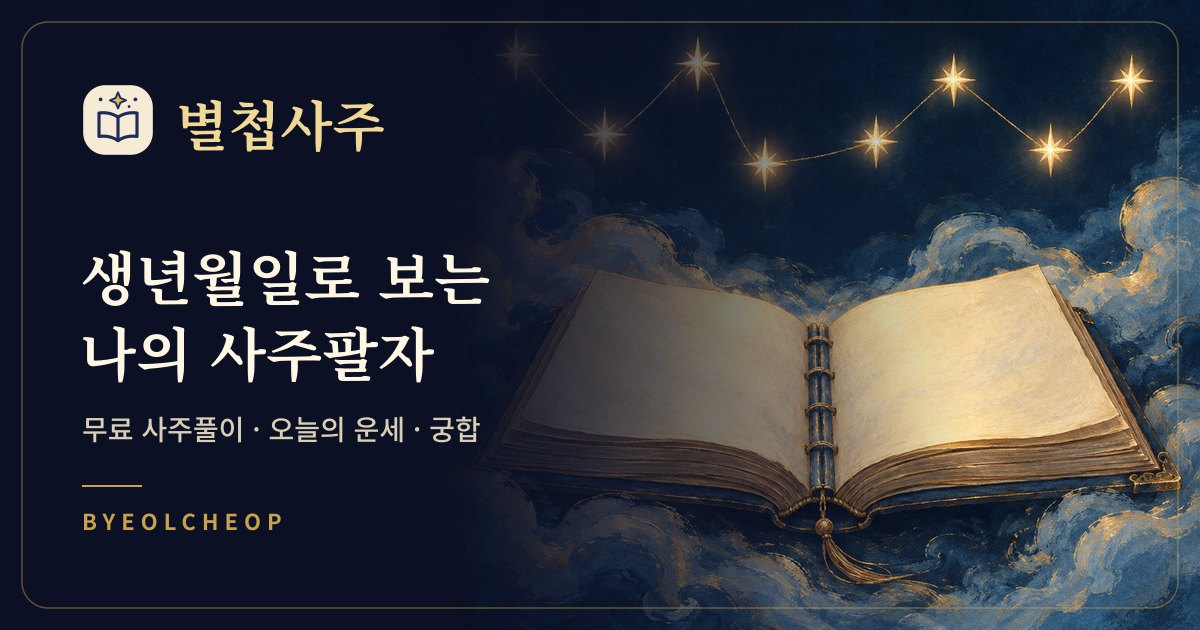
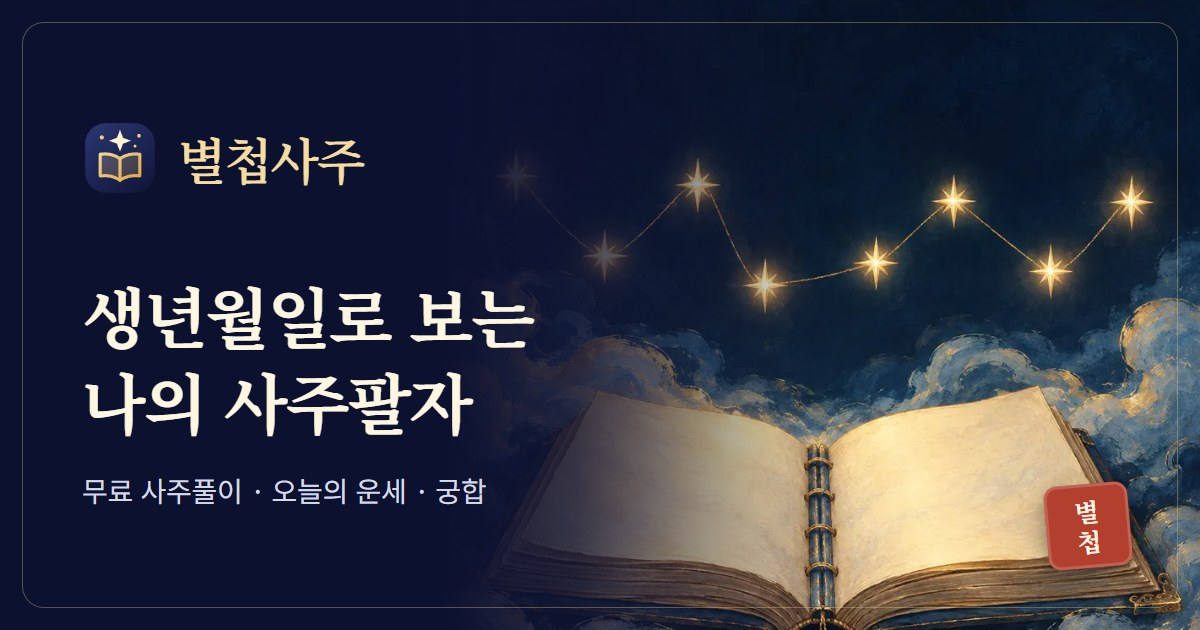
잠긴 목차·사주 소재 아이콘·오행 도장·메뉴·결제 완료 화면
- 결제 안내에 심층 리포트 18개 항목 제목을 잠긴 목차로 표시(리포트 본문과 같은 목록을 씀)
- 탭 아이콘: 사주풀이는 네 기둥, 궁합은 이어진 두 별로 다시 그림
- 오행 색 점을 木火土金水 한자 도장으로
- 메뉴: 아이콘 줄 대신 명조 글자 위주로, 궁합 빈 상태 버튼 정리
- 그림 통일: 같은 모서리·가는 테두리·같은 채도
- 결제 완료 화면: 겉모습만 변경(밤하늘 바탕, 봉함 도장). 결제 확인 스크립트는 그대로
- 공유 미리보기 이미지를 새 로고로 다시 만듦(파일 이름 그대로)

diff --git a/index.html b/index.html
@@ -14,7 +14,7 @@
 <meta property="og:title" content="별첩사주 — 사주풀이 · 오늘의 운세 · 궁합보기">
 <meta property="og:description" content="나의 성향부터 오늘의 흐름, 서로의 궁합까지. 별첩사주에서 만나보세요.">
 <meta property="og:image" content="https://www.byeolcheop.com/og-image-v4.jpg">
-<meta property="og:image:alt" content="라벤더빛 카드와 별첩사주 로고">
+<meta property="og:image:alt" content="펼친 별첩과 별자리, 별첩사주 로고">
 <meta property="og:image:width" content="1200">
 <meta property="og:image:height" content="630">
 <meta name="twitter:card" content="summary_large_image">
@@ -1784,7 +1784,7 @@ main h1,main h1.section-title{font-family:var(--font-serif-heading);font-weight:
 <link rel="stylesheet" href="/assets/ui/ian.css?v=3">
 <link rel="stylesheet" href="/assets/ui/reading-ux-v1.css?v=2">
 <link rel="stylesheet" href="/assets/ui/album-detail-v1.css?v=2">
-<link rel="stylesheet" href="/assets/ui/design-system.css?v=6">
+<link rel="stylesheet" href="/assets/ui/design-system.css?v=7">
 <!-- 방문 통계: Vercel Web Analytics. 쿠키 없이 방문 수와 들어온 경로만 세요. -->
 <script>window.va=window.va||function(){(window.vaq=window.vaq||[]).push(arguments);};</script>
 <script defer src="/_vercel/insights/script.js"></script>
@@ -3763,11 +3763,17 @@ function personaWrap(sectionType, innerHtml){ return innerHtml; }
 
 /* 하단 탭바 아이콘 (currentColor 선, 22x22) */
 var UI_ICON_PATHS={leaf:'M20 3C9 2 3 7 5 14c2 7 13 6 15-11ZM5 20 16 8',people:'M10 8a3 3 0 1 1-6 0 3 3 0 0 1 6 0ZM20 8a3 3 0 1 1-6 0 3 3 0 0 1 6 0ZM2 21v-3a5 5 0 0 1 10 0v3M12 21v-3a5 5 0 0 1 10 0v3',heart:'M20.8 4.6a5.5 5.5 0 0 0-7.8 0L12 5.7l-1.1-1.1a5.5 5.5 0 0 0-7.8 7.8L12 21l8.8-8.6a5.5 5.5 0 0 0 0-7.8Z',briefcase:'M8 6V3h8v3M3 7h18v14H3ZM3 12c5 3 13 3 18 0M10 13h4',wallet:'M20 7H5a2 2 0 0 1 0-4h13v4M3 5v15h18V7M21 12h-6v5h6M17 14.5h.01',check:'m5 12 4 4 10-10',alert:'M12 3 2 20h20ZM12 9.5v4.5M12 17h.01',lock:'M7 10V7a5 5 0 0 1 10 0v3M5 10h14v11H5ZM12 14v3',chat:'M4 4h16v12H9l-5 4ZM8 8h8M8 12h5',share:'M12 16V3m-5 5 5-5 5 5M5 13v7h14v-7',palette:'M12 3a9 9 0 1 0 0 18h1a2 2 0 0 0 1-3.7 2 2 0 0 1 1-3.8h2a4 4 0 0 0 4-4A8 8 0 0 0 12 3ZM7 9h.01M11 6h.01M16 8h.01M6 14h.01',compass:'M21 12a9 9 0 1 1-18 0 9 9 0 0 1 18 0ZM16 8l-3 5-5 3 3-5 5-3Z',spark:'m12 3 2.7 6.3L21 12l-6.3 2.7L12 21l-2.7-6.3L3 12l6.3-2.7L12 3Z',arrow:'m9 5 7 7-7 7',moon:'M19 15a8 8 0 1 1-10-10 8 8 0 0 0 10 10Z',close:'M6 6l12 12M18 6 6 18',back:'m15 5-7 7 7 7',sun:'M12 8a4 4 0 1 0 0 8 4 4 0 0 0 0-8ZM12 2v2M12 20v2M2 12h2M20 12h2M4.9 4.9l1.4 1.4M17.7 17.7l1.4 1.4M4.9 19.1l1.4-1.4M17.7 6.3l1.4-1.4'};
+/* 심층 리포트 목차: 리포트 본문과 결제 안내의 "잠긴 목차"가 같이 써요 */
+var DEEP_TOC={career:['한눈에 보는 직업 사주','나의 일하는 방식','일터에서의 나','내 적성의 다섯 가지 힘','태어난 해·달·시간으로 보는 일','오행으로 보는 맞는 분야','나머지 기운','타고난 일 기질','나의 힘과 일하는 구조','추천 직무','10년 커리어 흐름 상세','가장 강한 해의 월별 흐름','10년 단위로 보는 커리어','이직·퇴사 판단 가이드','일터 관계 대응법','연봉·보상 협상 가이드','번아웃 예방과 회복','커리어 로드맵과 스스로에게 던질 질문'],
+ love:['한눈에 보는 연애 사주','나의 연애 방식','연인 자리 심층 분석','연인 자리를 둘러싼 기운','내 연애의 다섯 가지 힘','태어난 해·달·시간으로 보는 연애','오행 균형과 연애','나머지 기운','타고난 연애 기질','나의 힘과 연애의 주도권','10년 인연 흐름 상세','꽃 피는 해의 월별 흐름','10년 단위로 보는 연애','궁합 가이드','연애 상황별 대응법','연인에게 건네는 나 사용설명서','이별과 회복','연애 로드맵과 스스로에게 던질 질문'],
+ marriage:['한눈에 보는 결혼 사주','나의 결혼관','배우자 자리 심층 분석','배우자 자리를 둘러싼 기운','내 결혼의 다섯 가지 힘','태어난 해·달·시간으로 보는 결혼','오행 균형과 결혼 생활','타고난 관계 기질','나의 힘과 관계의 주도권','결혼 생활 미리보기','10년 결혼 흐름 상세','가장 강한 해의 월별 흐름','10년 단위로 보는 결혼','궁합 가이드','갈등 상황별 대응법','배우자에게 건네는 사용설명서','결혼 준비 로드맵','결혼 전 함께 나눌 질문'],
+ wealth:['한눈에 보는 재물 사주','나의 돈 성향','저울로 보는 들어오는 힘과 새는 힘','내 돈 그릇','돈을 버는 재능','사람 때문에 나가는 돈','돈을 지키는 힘','태어난 날·해·달·시간으로 보는 돈','오행 균형과 돈','나머지 기운','재물 창고','나의 힘과 돈 그릇','10년 재물 흐름 상세','돈이 들어오는 해의 월별 흐름','10년 단위로 보는 재물','돈 상황별 대응법','나에게 맞는 돈 관리 방식','재물 로드맵과 스스로에게 던질 질문']};
+function lockedTocHtml(key){var list=DEEP_TOC[key];if(!list)return '';return '<div class="offer-toc"><p class="offer-toc-k">'+uiIcon('lock')+'<span>심층 리포트 '+list.length+'개 항목</span></p><ol>'+list.map(function(t){return '<li>'+esc(t)+'</li>';}).join('')+'</ol></div>';}
 function uiIcon(name){return '<svg viewBox="0 0 24 24" fill="none" aria-hidden="true"><path d="'+(UI_ICON_PATHS[name]||UI_ICON_PATHS.spark)+'" stroke="currentColor" stroke-width="1.6" stroke-linecap="round" stroke-linejoin="round"/></svg>';}
 WORRY_ICON={연애:uiIcon('heart'),직장:uiIcon('briefcase'),재물:uiIcon('wallet'),건강:uiIcon('leaf'),인간관계:uiIcon('people')};
-var TAB_ICON_SAJU = '<svg viewBox="0 0 24 24" fill="none" aria-hidden="true"><path class="ti-fill" d="m12 7 1.4 3.6L17 12l-3.6 1.4L12 17l-1.4-3.6L7 12l3.6-1.4Z"/><g stroke="currentColor" stroke-width="1.6" stroke-linecap="round" stroke-linejoin="round"><rect x="5" y="2.5" width="14" height="19" rx="4"/><path d="m12 7 1.4 3.6L17 12l-3.6 1.4L12 17l-1.4-3.6L7 12l3.6-1.4ZM8 5h.01M16 19h.01"/></g></svg>';
+var TAB_ICON_SAJU = '<svg viewBox="0 0 24 24" fill="none" aria-hidden="true"><rect class="ti-fill" x="7.6" y="4" width="3.6" height="16" rx="1.8"/><g stroke="currentColor" stroke-width="1.6" stroke-linecap="round" stroke-linejoin="round"><rect x="2.4" y="4" width="3.6" height="16" rx="1.8"/><rect x="7.6" y="4" width="3.6" height="16" rx="1.8"/><rect x="12.8" y="4" width="3.6" height="16" rx="1.8"/><rect x="18" y="4" width="3.6" height="16" rx="1.8"/></g></svg>';
 var TAB_ICON_TODAY = '<svg viewBox="0 0 24 24" fill="none" aria-hidden="true"><path class="ti-fill" d="M5 16a7 7 0 0 1 14 0Z"/><g stroke="currentColor" stroke-width="1.6" stroke-linecap="round" stroke-linejoin="round"><path d="M5 16a7 7 0 0 1 14 0M2 16h20M7 20h10M12 3v2.5M4.2 7.2l1.8 1.8M19.8 7.2 18 9"/></g></svg>';
-var TAB_ICON_COMPAT = '<svg viewBox="0 0 24 24" fill="none" aria-hidden="true"><path class="ti-fill" d="M12 6.8a6 6 0 0 1 0 10.4 6 6 0 0 1 0-10.4Z"/><g stroke="currentColor" stroke-width="1.6" stroke-linecap="round" stroke-linejoin="round"><circle cx="9" cy="12" r="6"/><circle cx="15" cy="12" r="6"/></g></svg>';
+var TAB_ICON_COMPAT = '<svg viewBox="0 0 24 24" fill="none" aria-hidden="true"><path class="ti-fill" d="M7.5 3.500l1.200 3.300L12 8l-3.300 1.200L7.500 12.500 6.300 9.200 3 8l3.300-1.200ZM16.500 11.500l1.200 3.300L21 16l-3.300 1.200-1.200 3.300-1.200-3.300L12 16l3.300-1.200Z"/><g stroke="currentColor" stroke-width="1.6" stroke-linecap="round" stroke-linejoin="round"><path d="M7.500 3.500l1.200 3.300L12 8l-3.300 1.200L7.500 12.500 6.300 9.200 3 8l3.300-1.200ZM16.500 11.500l1.200 3.300L21 16l-3.300 1.200-1.200 3.300-1.200-3.300L12 16l3.300-1.200ZM10.600 10.500l2.800 3"/></g></svg>';
 var TAB_ICON_REPORTS = '<svg viewBox="0 0 24 24" fill="none" aria-hidden="true"><path class="ti-fill" d="M12 5.5C8.6 3 5 3.4 2.5 4.5v14c3-1.4 6-1 9.5 1Z"/><g stroke="currentColor" stroke-width="1.6" stroke-linecap="round" stroke-linejoin="round"><path d="M12 5.5C8.6 3 5 3.4 2.5 4.5v14c3-1.4 6-1 9.5 1 3.5-2 6.500-2.4 9.5-1v-14C19 3.400 15.400 3 12 5.500ZM12 5.500v14M15.500 8.500h3M15.500 12h3"/></g></svg>';
 
 /* ============================================================
@@ -4001,7 +4007,7 @@ function starHeroHtml(){
 /* 결과 맨 위: 내 여덟 글자를 남색 판에 크게. 일간(태어난 날의 위 글자)이 "나"를 나타내서 금색으로 둘러요 */
 function pillarHeroHtml(result){
  var cols=[['시',result.time],['일',result.day],['월',result.month],['년',result.year]];
- var g=function(ch,kr,wx,me){var info=WUXING_INFO[wx];return '<span class="ph-g'+(me?' is-me':'')+'"><b>'+esc(ch)+'</b><small>'+esc(kr||'')+'</small><i style="background:var('+(info?info.var:'--fg-muted')+')"></i></span>';};
+ var g=function(ch,kr,wx,me){var info=WUXING_INFO[wx];return '<span class="ph-g'+(me?' is-me':'')+'"><b>'+esc(ch)+'</b><small>'+esc(kr||'')+'</small><i data-wx="'+(info?esc(info.hanja):'')+'" style="background:var('+(info?info.var:'--fg-muted')+')"></i></span>';};
  var colsHtml=cols.map(function(c){var p=c[1];if(!p)return '<div class="ph-col is-empty"><span class="ph-g"><b>?</b></span><span class="ph-g"><b>?</b></span><em>'+c[0]+'</em></div>';return '<div class="ph-col">'+g(p.gan,p.ganKr,p.wxGan,c[0]==='일')+g(p.zhi,p.zhiKr,p.wxZhi,false)+'<em>'+c[0]+'</em></div>';}).join('');
  var d=result.day,wx=result.dayGanWx,info=WUXING_INFO[wx];
  return '<section class="pillar-hero" aria-label="나의 사주 여덟 글자"><div class="ph-cols">'+colsHtml+'</div>'+
@@ -4605,7 +4611,7 @@ function dayFortuneHtml(my){
       '<p class="today-date">'+now.getFullYear()+'년 '+(now.getMonth()+1)+'월 '+now.getDate()+'일 ('+weekKr+') · '+(my.name? esc(my.name)+'님':'나')+' 기준</p>'+
       '<div class="today-ganzhi-panel">'+
         '<div class="today-ganzhi">'+
-          '<span class="dot" style="width:14px;height:14px;background:var('+dayInfo.var+')"></span>'+
+          '<span class="dot wx-seal" data-wx="'+esc(dayInfo.hanja||'')+'" style="width:14px;height:14px;background:var('+dayInfo.var+')"></span>'+
           '<span class="today-theme">'+ft.label+'</span>'+
         '</div>'+
       '</div>'+
@@ -6014,7 +6020,7 @@ function careerPreviewHtml(concept,result,rows){
 function careerOffer(stage){
  var detail=stage==='detail';
  var benefits=detail?['한눈에 보는 직업 사주 요약표, 나의 일하는 방식, 일터에서의 나','타고난 기운으로 읽는 적성과 맞는 분야, 추천 직무','10년 커리어 흐름의 해마다 할 일, 가장 강한 해의 월별 흐름, 10년 단위로 보는 커리어','이직·퇴사 판단 기준, 일터 관계 6장면 대응법, 연봉 협상 가이드','번아웃 신호와 회복법, 커리어 로드맵 5단계, 스스로에게 던질 질문 24개']:['일의 지도 카드와 현실 장면 10개로 보는 나의 일하는 방식','앞으로 10년의 커리어 흐름과 길이 크게 열리는 세 해, 서림의 처방전','18개 항목 직업 심층 리포트: 적성과 추천 직무, 이직 판단, 연봉 협상, 번아웃, 커리어 로드맵'];
- return '<section class="reader-offer marriage-offer career-offer" data-gate="'+stage+'">'+seorimScene(detail?'detail':'lock',detail?'기록책을 펼쳐두고 맞은편 자리를 권하는 서림':'두루마리를 입가에 대고 윙크하는 서림',!detail)+'<p class="reader-kicker">'+(detail?'직업 심층 리포트':'직업 사주 · 서림')+'</p><h2>'+(detail?'내 직업 사주,<br>18개 항목으로 깊게 읽기':'나머지 풀이는<br>여기서 이어져요')+'</h2><ul class="offer-benefits">'+benefits.map(function(x){return '<li>'+esc(x)+'</li>';}).join('')+'</ul><button type="button" class="btn-primary report-stage-buy" data-stage="'+stage+'">'+(detail?'심층 리포트 보기 · 12,900원':'직업 사주 전체 보기 · 7,900원')+'</button><p class="reader-price-note">'+(detail?'선택 구매 · 콘텐츠와 별도 결제 · 1회 결제':'1회 결제 · 이야기와 18개 항목 직업 심층 리포트를 한 번에 열기<br>결제 즉시 제공 · 결제일로부터 1년간 다시 보기<br>결제 후 바로 열람되는 디지털 콘텐츠라, 열어본 뒤에는 환불이 제한돼요. <a href="/legal.html#refund">환불 정책</a>')+'</p></section>';
+ return '<section class="reader-offer marriage-offer career-offer" data-gate="'+stage+'">'+seorimScene(detail?'detail':'lock',detail?'기록책을 펼쳐두고 맞은편 자리를 권하는 서림':'두루마리를 입가에 대고 윙크하는 서림',!detail)+'<p class="reader-kicker">'+(detail?'직업 심층 리포트':'직업 사주 · 서림')+'</p><h2>'+(detail?'내 직업 사주,<br>18개 항목으로 깊게 읽기':'나머지 풀이는<br>여기서 이어져요')+'</h2><ul class="offer-benefits">'+benefits.map(function(x){return '<li>'+esc(x)+'</li>';}).join('')+'</ul>'+lockedTocHtml('career')+'<button type="button" class="btn-primary report-stage-buy" data-stage="'+stage+'">'+(detail?'심층 리포트 보기 · 12,900원':'직업 사주 전체 보기 · 7,900원')+'</button><p class="reader-price-note">'+(detail?'선택 구매 · 콘텐츠와 별도 결제 · 1회 결제':'1회 결제 · 이야기와 18개 항목 직업 심층 리포트를 한 번에 열기<br>결제 즉시 제공 · 결제일로부터 1년간 다시 보기<br>결제 후 바로 열람되는 디지털 콘텐츠라, 열어본 뒤에는 환불이 제한돼요. <a href="/legal.html#refund">환불 정책</a>')+'</p></section>';
 }
 function careerStoryHtml(story,result,rows){
  var stem=result.day.ganKr,card=story.cards[stem]||{},wx=result.dayGanWx,wk=PERSONA_KEY[result.day.ganKr]||result.dayGanWx,strong=result.strength==='strong',who=marriageCallName(result);
@@ -6060,7 +6066,7 @@ function careerDeepHtml(deep,result,rows){
  var changeYears=rows.filter(function(r){return r.rel==='chong';}),payYears=rows.filter(function(r){return r.tg==='jaeseong';});
  var html='<div class="deep-report seorim-deep">'+
   '<header class="deep-head">'+seorimSay('serious','<p>여기부터는 자세한 리포트예요. 목차에서 궁금한 항목부터 골라 읽어도 괜찮아요.</p>')+'<p class="deep-kicker">직업 심층 리포트</p><h2>'+who+'의 직업 사주</h2><p class="deep-sub">18개 항목 · 내 사주와 앞으로의 흐름 기준</p>'+
-  '<ol class="deep-toc">'+['한눈에 보는 직업 사주','나의 일하는 방식','일터에서의 나','내 적성의 다섯 가지 힘','태어난 해·달·시간으로 보는 일','오행으로 보는 맞는 분야','나머지 기운','타고난 일 기질','나의 힘과 일하는 구조','추천 직무','10년 커리어 흐름 상세','가장 강한 해의 월별 흐름','10년 단위로 보는 커리어','이직·퇴사 판단 가이드','일터 관계 대응법','연봉·보상 협상 가이드','번아웃 예방과 회복','커리어 로드맵과 스스로에게 던질 질문'].map(function(t){return '<li>'+t+'</li>';}).join('')+'</ol></header>';
+  '<ol class="deep-toc">'+DEEP_TOC.career.map(function(t){return '<li>'+t+'</li>';}).join('')+'</ol></header>';
  html+=sec('한눈에 보는 직업 사주','<dl class="deep-summary">'+
   '<div><dt>나</dt><dd>'+esc(stem+'('+result.day.gan+') · '+wx+' · '+(CAREER_TITLE[stem]||''))+'</dd></div>'+
   '<div><dt>일터 자리</dt><dd>'+esc(mz)+'</dd></div>'+
@@ -6175,7 +6181,7 @@ function lovePreviewHtml(concept,result,rows){
 function loveOffer(stage){
  var detail=stage==='detail';
  var benefits=detail?['한눈에 보는 연애 사주 요약표, 나의 연애 방식, 연인 자리 심층 분석','타고난 기운으로 읽는 연애 성향과 보완 습관','10년 인연 흐름의 해마다 할 일, 꽃 피는 세 해의 월별 흐름, 10년 단위로 보는 연애','잘 맞는 띠·일지 궁합 가이드, 연애 상황 6가지 대응법(해볼 말, 피할 말)','연인에게 건네는 나 사용설명서, 이별과 회복, 연애 로드맵과 질문 24개']:['마음의 꽃 카드와 연애 장면 10개로 보는 나의 연애 방식','앞으로 10년의 인연 흐름과 꽃 피는 세 해, 해랑의 처방전','18개 항목 연애 심층 리포트: 연인 자리, 궁합, 상황별 대응법, 나 사용설명서, 이별과 회복'];
- return '<section class="reader-offer marriage-offer love-offer" data-gate="'+stage+'">'+haerangScene(detail?'detail':'lock',detail?'꽃 도감을 펼쳐두고 맞은편 자리를 권하는 해랑':'꽃다발을 등 뒤로 숨기며 웃는 해랑',!detail)+'<p class="reader-kicker">'+(detail?'연애 심층 리포트':'연애 사주 · 해랑')+'</p><h2>'+(detail?'내 연애 사주,<br>18개 항목으로 깊게 읽기':'나머지 풀이는<br>여기서 이어져요')+'</h2><ul class="offer-benefits">'+benefits.map(function(x){return '<li>'+esc(x)+'</li>';}).join('')+'</ul><button type="button" class="btn-primary report-stage-buy" data-stage="'+stage+'">'+(detail?'심층 리포트 보기 · 12,900원':'연애 사주 전체 보기 · 7,900원')+'</button><p class="reader-price-note">'+(detail?'선택 구매 · 콘텐츠와 별도 결제 · 1회 결제':'1회 결제 · 이야기와 18개 항목 연애 심층 리포트를 한 번에 열기<br>결제 즉시 제공 · 결제일로부터 1년간 다시 보기<br>결제 후 바로 열람되는 디지털 콘텐츠라, 열어본 뒤에는 환불이 제한돼요. <a href="/legal.html#refund">환불 정책</a>')+'</p></section>';
+ return '<section class="reader-offer marriage-offer love-offer" data-gate="'+stage+'">'+haerangScene(detail?'detail':'lock',detail?'꽃 도감을 펼쳐두고 맞은편 자리를 권하는 해랑':'꽃다발을 등 뒤로 숨기며 웃는 해랑',!detail)+'<p class="reader-kicker">'+(detail?'연애 심층 리포트':'연애 사주 · 해랑')+'</p><h2>'+(detail?'내 연애 사주,<br>18개 항목으로 깊게 읽기':'나머지 풀이는<br>여기서 이어져요')+'</h2><ul class="offer-benefits">'+benefits.map(function(x){return '<li>'+esc(x)+'</li>';}).join('')+'</ul>'+lockedTocHtml('love')+'<button type="button" class="btn-primary report-stage-buy" data-stage="'+stage+'">'+(detail?'심층 리포트 보기 · 12,900원':'연애 사주 전체 보기 · 7,900원')+'</button><p class="reader-price-note">'+(detail?'선택 구매 · 콘텐츠와 별도 결제 · 1회 결제':'1회 결제 · 이야기와 18개 항목 연애 심층 리포트를 한 번에 열기<br>결제 즉시 제공 · 결제일로부터 1년간 다시 보기<br>결제 후 바로 열람되는 디지털 콘텐츠라, 열어본 뒤에는 환불이 제한돼요. <a href="/legal.html#refund">환불 정책</a>')+'</p></section>';
 }
 function loveStoryHtml(story,result,rows){
  var stem=result.day.ganKr,card=story.cards[stem]||{},wx=result.dayGanWx,wk=PERSONA_KEY[result.day.ganKr]||result.dayGanWx,strong=result.strength==='strong',who=marriageCallName(result);
@@ -6220,7 +6226,7 @@ function loveDeepHtml(deep,result,rows){
  var stars=function(s){var k=s>=5?5:s>=4?4:s>=3?3:s>=1?2:1;return '<span class="deep-stars" aria-label="'+k+'점">'+'★★★★★'.slice(0,k)+'<i>'+'★★★★★'.slice(k)+'</i></span>';};
  var html='<div class="deep-report haerang-deep">'+
   '<header class="deep-head">'+haerangSay('serious','<p>여기부터는 자세한 리포트예요. 궁금한 항목부터 편하게 읽어보세요.</p>')+'<p class="deep-kicker">연애 심층 리포트</p><h2>'+who+'의 연애 사주</h2><p class="deep-sub">18개 항목 · 내 사주와 앞으로의 흐름 기준</p>'+
-  '<ol class="deep-toc">'+['한눈에 보는 연애 사주','나의 연애 방식','연인 자리 심층 분석','연인 자리를 둘러싼 기운','내 연애의 다섯 가지 힘','태어난 해·달·시간으로 보는 연애','오행 균형과 연애','나머지 기운','타고난 연애 기질','나의 힘과 연애의 주도권','10년 인연 흐름 상세','꽃 피는 해의 월별 흐름','10년 단위로 보는 연애','궁합 가이드','연애 상황별 대응법','연인에게 건네는 나 사용설명서','이별과 회복','연애 로드맵과 스스로에게 던질 질문'].map(function(t){return '<li>'+t+'</li>';}).join('')+'</ol></header>';
+  '<ol class="deep-toc">'+DEEP_TOC.love.map(function(t){return '<li>'+t+'</li>';}).join('')+'</ol></header>';
  html+=sec('한눈에 보는 연애 사주','<dl class="deep-summary">'+
   '<div><dt>나</dt><dd>'+esc(stem+'('+result.day.gan+') · '+wx+' · '+(LOVE_TITLE[stem]||''))+'</dd></div>'+
   '<div><dt>연인 자리</dt><dd>'+esc(zhi+'('+result.day.zhi+')')+'</dd></div>'+
@@ -6391,7 +6397,7 @@ function marriageStoryHtml(story,result,rows){
 function marriageOffer(stage){
  var detail=stage==='detail';
  var benefits=detail?['한눈에 보는 결혼 사주 요약표, 나의 결혼관, 배우자 자리 심층 분석','타고난 기운으로 읽는 나의 결혼 성향과 보완 습관','10년 연도별 할 일, 가장 강한 해의 월별 흐름, 10년 단위로 보는 결혼','신혼 1·5·10년차 미리보기, 잘 맞는 띠·일지 궁합 가이드','갈등 상황 6가지 대응법(나의 패턴, 해볼 말, 피해야 할 말)','결혼 준비 5단계 로드맵과 결혼 전 함께 나눌 질문 20개']:['배우자 별 카드와 앞으로 10년의 결혼 흐름, 가장 크게 빛나는 세 해','함께 살 때의 모습: 다툼, 돈, 양가 가족, 바로 쓸 대화, 체크리스트','18개 항목 결혼 심층 리포트: 배우자 자리, 궁합, 갈등 대응법, 결혼 준비 로드맵, 질문 20개'];
- return '<section class="reader-offer marriage-offer" data-gate="'+stage+'">'+wolhaScene(detail?'detail':'lock',detail?'찻잔 두 개를 붉은 실로 잇는 월하':'은가위를 들고 윙크하는 월하')+'<p class="reader-kicker">'+(detail?'결혼 심층 리포트':'결혼 사주 · 월하')+'</p><h2>'+(detail?'내 결혼 사주,<br>18개 항목으로 깊게 읽기':'나머지 풀이는<br>여기서 이어져요')+'</h2><ul class="offer-benefits">'+benefits.map(function(x){return '<li>'+esc(x)+'</li>';}).join('')+'</ul><button type="button" class="btn-primary report-stage-buy" data-stage="'+stage+'">'+(detail?'심층 리포트 보기 · 12,900원':'결혼 사주 전체 보기 · 7,900원')+'</button><p class="reader-price-note">'+(detail?'선택 구매 · 콘텐츠와 별도 결제 · 1회 결제':'1회 결제 · 이야기와 18개 항목 결혼 심층 리포트를 한 번에 열기<br>결제 즉시 제공 · 결제일로부터 1년간 다시 보기<br>결제 후 바로 열람되는 디지털 콘텐츠라, 열어본 뒤에는 환불이 제한돼요. <a href="/legal.html#refund">환불 정책</a>')+'</p></section>';
+ return '<section class="reader-offer marriage-offer" data-gate="'+stage+'">'+wolhaScene(detail?'detail':'lock',detail?'찻잔 두 개를 붉은 실로 잇는 월하':'은가위를 들고 윙크하는 월하')+'<p class="reader-kicker">'+(detail?'결혼 심층 리포트':'결혼 사주 · 월하')+'</p><h2>'+(detail?'내 결혼 사주,<br>18개 항목으로 깊게 읽기':'나머지 풀이는<br>여기서 이어져요')+'</h2><ul class="offer-benefits">'+benefits.map(function(x){return '<li>'+esc(x)+'</li>';}).join('')+'</ul>'+lockedTocHtml('marriage')+'<button type="button" class="btn-primary report-stage-buy" data-stage="'+stage+'">'+(detail?'심층 리포트 보기 · 12,900원':'결혼 사주 전체 보기 · 7,900원')+'</button><p class="reader-price-note">'+(detail?'선택 구매 · 콘텐츠와 별도 결제 · 1회 결제':'1회 결제 · 이야기와 18개 항목 결혼 심층 리포트를 한 번에 열기<br>결제 즉시 제공 · 결제일로부터 1년간 다시 보기<br>결제 후 바로 열람되는 디지털 콘텐츠라, 열어본 뒤에는 환불이 제한돼요. <a href="/legal.html#refund">환불 정책</a>')+'</p></section>';
 }
 /* 결혼 사주 계산 보조: 월별 흐름, 궁합 짝, 십신 묶음 */
 var ZHI_ORDER='子丑寅卯辰巳午未申酉戌亥';
@@ -6451,7 +6457,7 @@ function marriageDeepHtml(deep,result,rows){
  var stars=function(s){var k=s>=5?5:s>=4?4:s>=3?3:s>=1?2:1;return '<span class="deep-stars" aria-label="'+k+'점">'+'★★★★★'.slice(0,k)+'<i>'+'★★★★★'.slice(k)+'</i></span>';};
  var html='<div class="deep-report">'+
   '<header class="deep-head">'+wolhaSay('serious','<p>여기부터는 자세한 리포트예요. 필요한 항목부터 읽어보세요.</p>')+'<p class="deep-kicker">결혼 심층 리포트</p><h2>'+who+'의 결혼 사주</h2><p class="deep-sub">18개 항목 · 내 사주와 앞으로의 흐름 기준</p>'+
-  '<ol class="deep-toc">'+['한눈에 보는 결혼 사주','나의 결혼관','배우자 자리 심층 분석','배우자 자리를 둘러싼 기운','내 결혼의 다섯 가지 힘','태어난 해·달·시간으로 보는 결혼','오행 균형과 결혼 생활','타고난 관계 기질','나의 힘과 관계의 주도권','결혼 생활 미리보기','10년 결혼 흐름 상세','가장 강한 해의 월별 흐름','10년 단위로 보는 결혼','궁합 가이드','갈등 상황별 대응법','배우자에게 건네는 사용설명서','결혼 준비 로드맵','결혼 전 함께 나눌 질문'].map(function(t){return '<li>'+t+'</li>';}).join('')+'</ol></header>';
+  '<ol class="deep-toc">'+DEEP_TOC.marriage.map(function(t){return '<li>'+t+'</li>';}).join('')+'</ol></header>';
  html+=sec('한눈에 보는 결혼 사주','<dl class="deep-summary">'+
   '<div><dt>나</dt><dd>'+esc(result.day.ganKr+'('+result.day.gan+') · '+wx)+'</dd></div>'+
   '<div><dt>배우자 자리</dt><dd>'+esc(zhi+'('+result.day.zhi+') · '+(SPOUSE_STAR[zhi]||''))+'</dd></div>'+
@@ -6576,7 +6582,7 @@ function wealthPreviewHtml(concept,result,rows){
 }
 function wealthOffer(stage){
  var benefits=['재물 장부 카드와 장부 11칸: 수입, 지출, 충동구매, 저축, 가계부, 투자, 빌려주기, 동업, 부업, 큰돈, 10년 흐름','돈이 들어오는 세 해와 그해 좋은 달, 금비의 영수증(이번 달 할 일)','18개 항목 재물 심층 리포트: 저울, 재물 창고, 10년 흐름, 상황별 대응법, 나에게 맞는 돈 관리 방식'];
- return '<section class="reader-offer marriage-offer wealth-offer" data-gate="'+stage+'">'+gumbiScene('leak','장부의 한 칸을 검지로 짚으며 잠깐 하고 말하는 금비','square')+'<p class="reader-kicker">재물 사주 · 금비</p><h2>새는 구멍,<br>장부에서 같이 찾아요</h2><ul class="offer-benefits">'+benefits.map(function(x){return '<li>'+esc(x)+'</li>';}).join('')+'</ul><button type="button" class="btn-primary report-stage-buy" data-stage="'+stage+'">재물 사주 전체 보기 · 7,900원</button><p class="reader-price-note">1회 결제 · 장부 풀이와 18개 항목 재물 심층 리포트를 한 번에 열기<br>결제 즉시 제공 · 결제일로부터 1년간 다시 보기<br>결제 후 바로 열람되는 디지털 콘텐츠라, 열어본 뒤에는 환불이 제한돼요. <a href="/legal.html#refund">환불 정책</a></p></section>';
+ return '<section class="reader-offer marriage-offer wealth-offer" data-gate="'+stage+'">'+gumbiScene('leak','장부의 한 칸을 검지로 짚으며 잠깐 하고 말하는 금비','square')+'<p class="reader-kicker">재물 사주 · 금비</p><h2>새는 구멍,<br>장부에서 같이 찾아요</h2><ul class="offer-benefits">'+benefits.map(function(x){return '<li>'+esc(x)+'</li>';}).join('')+'</ul>'+lockedTocHtml('wealth')+'<button type="button" class="btn-primary report-stage-buy" data-stage="'+stage+'">재물 사주 전체 보기 · 7,900원</button><p class="reader-price-note">1회 결제 · 장부 풀이와 18개 항목 재물 심층 리포트를 한 번에 열기<br>결제 즉시 제공 · 결제일로부터 1년간 다시 보기<br>결제 후 바로 열람되는 디지털 콘텐츠라, 열어본 뒤에는 환불이 제한돼요. <a href="/legal.html#refund">환불 정책</a></p></section>';
 }
 function wealthStoryHtml(story,result,rows){
  var stem=result.day.ganKr,card=story.cards[stem]||{},wx=result.dayGanWx,wk=PERSONA_KEY[result.day.ganKr]||result.dayGanWx,pf=wealthProfile(result),who=marriageCallName(result);
@@ -6622,7 +6628,7 @@ function wealthDeepHtml(deep,result,rows){
  var tm=deep.tenGodMoney,sm=deep.siksangMoney,bm=deep.bigyeopMoney,gi=deep.gwanInMoney,sys=deep.system.split[pf.income]||{};
  var html='<div class="deep-report gumbi-deep">'+
   '<header class="deep-head">'+gumbiScene('detail','선반에서 두꺼운 장부를 꺼내며 돌아보는 금비','tall')+gumbiSay('serious','<p>여기부터는 자세한 리포트예요. 궁금한 항목부터 읽어봐요.</p>')+'<p class="deep-kicker">재물 심층 리포트</p><h2>'+who+'의 재물 사주</h2><p class="deep-sub">18개 항목 · 내 사주와 앞으로의 흐름 기준</p>'+
-  '<ol class="deep-toc">'+['한눈에 보는 재물 사주','나의 돈 성향','저울로 보는 들어오는 힘과 새는 힘','내 돈 그릇','돈을 버는 재능','사람 때문에 나가는 돈','돈을 지키는 힘','태어난 날·해·달·시간으로 보는 돈','오행 균형과 돈','나머지 기운','재물 창고','나의 힘과 돈 그릇','10년 재물 흐름 상세','돈이 들어오는 해의 월별 흐름','10년 단위로 보는 재물','돈 상황별 대응법','나에게 맞는 돈 관리 방식','재물 로드맵과 스스로에게 던질 질문'].map(function(t){return '<li>'+t+'</li>';}).join('')+'</ol></header>';
+  '<ol class="deep-toc">'+DEEP_TOC.wealth.map(function(t){return '<li>'+t+'</li>';}).join('')+'</ol></header>';
  var hard=rows.filter(function(r){return r.tg==='bigyeop'||WEALTH_REL_SCORE[r.rel]<0;}).sort(function(a,b){return a.score-b.score||a.year-b.year;})[0];
  var bmonths=best?wealthMonths(result,best.year).filter(function(x){return x.top;}).sort(function(x,y){return x.month-y.month;}):[];
  html+=sec('한눈에 보는 재물 사주','<dl class="deep-summary">'+
@@ -8081,7 +8087,7 @@ function initVisualFeedback(){
   button.appendChild(dot);setTimeout(function(){dot.remove();},600);
  },true);
  if(!('IntersectionObserver' in window)||!('MutationObserver' in window))return;
- var seen=new WeakSet(),selector='.journal-hero,.card,.report-card,.personal-traits,.reading-point,.today-peek,.pillar-hero,.saju-quick-summary,.star-gift,.saju-hook,.next-steps,.home-contents,.tab-intro,.saju-hero,.reader-cover,.wolha-scene,.wolha-say,.free-chapter,.love-free-card,.love-letter,.ledger-row,.gumbi-scale,.ny-talk,.ny-year,.ny-scene,.ny-letter,.reader-offer h2,.ny-offer h2,.offer-benefits,.ny-teasers,.report-stage-buy';
+ var seen=new WeakSet(),selector='.journal-hero,.card,.report-card,.personal-traits,.reading-point,.today-peek,.pillar-hero,.saju-quick-summary,.star-gift,.saju-hook,.next-steps,.home-contents,.tab-intro,.saju-hero,.reader-cover,.wolha-scene,.wolha-say,.free-chapter,.love-free-card,.love-letter,.ledger-row,.gumbi-scale,.ny-talk,.ny-year,.ny-scene,.ny-letter,.reader-offer h2,.ny-offer h2,.offer-benefits,.ny-teasers,.offer-toc,.report-stage-buy';
  var observer=new IntersectionObserver(function(entries){entries.forEach(function(entry){if(!entry.isIntersecting)return;if(!reduce||!reduce.matches)entry.target.classList.add('ui-arrive');observer.unobserve(entry.target);});},{threshold:.08});
  function scan(node){if(node.nodeType!==1)return;var nodes=Array.from(node.querySelectorAll(selector));if(node.matches(selector))nodes.unshift(node);nodes.forEach(function(el){if(seen.has(el))return;seen.add(el);observer.observe(el);});}
  scan(document.body);new MutationObserver(function(records){records.forEach(function(record){record.addedNodes.forEach(scan);});}).observe(document.body,{childList:true,subtree:true});

diff --git a/assets/ui/design-system.css b/assets/ui/design-system.css
@@ -289,3 +289,38 @@ body{background:var(--ds-paper)}
 .report-discover{text-decoration:underline;text-underline-offset:4px;text-decoration-color:var(--ds-gold)}
 .report-group{margin-top:32px}
 @media(prefers-reduced-motion:reduce){.saju-hero-visual::after{animation:none!important}}
+
+/* ===== 6차: 잠긴 목차 · 오행 도장 · 메뉴 · 그림 통일 ===== */
+/* --- 결제 안내의 잠긴 목차: 무엇이 남아 있는지 제목으로 보여 줌 --- */
+.offer-toc{margin:4px 0 22px;padding:16px 0 0;border-top:1px solid #ffffff1f;text-align:left}
+.offer-toc-k{display:flex;align-items:center;gap:6px;margin:0 0 10px;font-size:var(--ds-fs-cap);font-weight:700;color:#e9c47a}
+.offer-toc-k svg{width:15px;height:15px;flex:none}
+.reader-offer .offer-toc ol{margin:0;padding:0;list-style:none;counter-reset:toc;columns:2;column-gap:16px;font-size:var(--ds-fs-cap);line-height:1.5;color:#c9cde0}
+.offer-toc li{position:relative;break-inside:avoid;padding:5px 0 5px 22px;counter-increment:toc;word-break:keep-all}
+.offer-toc li::before{content:counter(toc);position:absolute;left:0;top:5px;width:16px;font-family:'Noto Serif KR',serif;font-size:.75rem;color:#8f96b4;text-align:right}
+.offer-toc.ui-arrive li{animation:ds-rise .45s cubic-bezier(.2,.7,.3,1) both}
+.offer-toc.ui-arrive li:nth-child(n+4){animation-delay:.08s}.offer-toc.ui-arrive li:nth-child(n+7){animation-delay:.16s}
+.offer-toc.ui-arrive li:nth-child(n+10){animation-delay:.24s}.offer-toc.ui-arrive li:nth-child(n+13){animation-delay:.32s}.offer-toc.ui-arrive li:nth-child(n+16){animation-delay:.4s}
+/* --- 오행을 한자 도장으로: 색 점에 뜻을 붙임 --- */
+.ph-g i{top:5px;right:5px;width:15px;height:15px;border-radius:4px;display:grid;place-items:center}
+.ph-g i::after{content:attr(data-wx);font:600 .5625rem/1 'Noto Serif KR',serif;color:#fff}
+.today-ganzhi .dot.wx-seal{width:24px!important;height:24px!important;border-radius:6px;display:grid;place-items:center;transform:rotate(-4deg)}
+.today-ganzhi .dot.wx-seal::after{content:attr(data-wx);font:600 .8125rem/1 'Noto Serif KR',serif;color:#fff}
+/* --- 메뉴: 아이콘 줄 대신 글자 위주로 --- */
+.menu-row-icon{display:none}
+.menu-row{min-height:0;padding:18px 0;gap:12px;border-bottom:1px solid #ffffff1a}
+.menu-row>span:nth-child(2){flex:1}
+.menu-row strong{font-family:'Noto Serif KR',serif;font-size:var(--ds-fs-h3);font-weight:600;color:#f6ecd6}
+.menu-row small{margin-top:3px;color:#aab1c8}
+.menu-chevron{color:#e9c47a}
+.menu-profile{padding:16px;border-radius:var(--ds-r-ctl);background:#ffffff0d;border:1px solid #f0d38c33}
+.menu-top h2{font-family:'Noto Serif KR',serif;color:#f6ecd6}
+/* --- 궁합 탭 빈 상태 --- */
+.sky-nostar-note{border-radius:var(--ds-r-ctl)}
+.sky-nostar-btn{background:var(--ds-gold);color:#1a1436;border-radius:var(--ds-r-ctl)}
+/* --- 그림 통일: 그림체가 달라도 같은 모서리 · 가는 테두리 · 같은 채도로 한 묶음처럼 --- */
+.report-cover,.home-content-card,.ny-banner,.report-page .wolha-scene,.report-page .ny-scene,.ci-art{position:relative}
+.report-cover img,.home-content-card img,.ny-banner img,.report-page .wolha-scene img,.report-page .ny-scene img,.report-page .love-free-card img,.ci-art img,.reader-cover>img{filter:saturate(.9) contrast(1.02)}
+.report-cover::after,.report-page .wolha-scene::after,.report-page .ny-scene::after{content:'';position:absolute;inset:0;border-radius:inherit;box-shadow:inset 0 0 0 1px #f0d38c33;pointer-events:none}
+.report-page .wolha-scene,.report-page .ny-scene{border-radius:var(--ds-r-ctl);overflow:hidden}
+.report-page .wolha-scene img,.report-page .ny-scene img{border-radius:0}

diff --git a/success.html b/success.html
@@ -4,21 +4,31 @@
 <meta charset="utf-8">
 <meta name="viewport" content="width=device-width,initial-scale=1">
 <title>결제 확인 중 · 별첩사주</title>
+<link rel="preconnect" href="https://fonts.googleapis.com">
+<link rel="preconnect" href="https://fonts.gstatic.com" crossorigin>
+<link href="https://fonts.googleapis.com/css2?family=Noto+Sans+KR:wght@400;700&family=Noto+Serif+KR:wght@600&display=swap" rel="stylesheet">
 <style>
   html,body{margin:0; height:100%;}
   body{
     font-family:'Noto Sans KR',sans-serif; display:flex; align-items:center; justify-content:center;
-    height:100vh; background:#0c1222; color:#e7eaf0; text-align:center; padding:24px; box-sizing:border-box;
+    height:100vh; background:radial-gradient(1.2px 1.2px at 14% 22%,#fff9 50%,transparent 52%),radial-gradient(1px 1px at 30% 72%,#fff6 50%,transparent 52%),radial-gradient(1.4px 1.4px at 52% 14%,#ffe9b0aa 50%,transparent 52%),radial-gradient(1px 1px at 70% 60%,#fff7 50%,transparent 52%),radial-gradient(1.2px 1.2px at 86% 28%,#fff8 50%,transparent 52%),linear-gradient(160deg,#252e66 0%,#151b43 55%,#0f1331 100%);
+    color:#f6ecd6; text-align:center; padding:24px; box-sizing:border-box; letter-spacing:-.02em;
   }
-  .box{max-width:320px;line-height:1.8;}
-  button{border:0;border-radius:12px;background:#e8b96d;color:#20180e;padding:12px 18px;font:inherit;cursor:pointer;}
-  .spin{font-size:2rem; margin-bottom:12px;}
-  a{color:#9c6b1f; text-decoration:none; font-weight:700;}
+  .box{max-width:320px;line-height:1.7;}
+  #msg{margin:0 0 20px;font-family:'Noto Serif KR',serif;font-size:1.125rem;font-weight:600;word-break:keep-all;}
+  button{border:0;border-radius:14px;min-height:48px;background:#d9b060;color:#1a1436;padding:0 22px;font:inherit;font-weight:700;cursor:pointer;}
+  /* 봉함 도장: 확인하는 동안 천천히 숨 쉬듯 움직여요 */
+  .spin{position:relative;width:64px;height:64px;margin:0 auto 24px;display:grid;place-items:center;border-radius:11px;background:#b3402f;color:#fff3e2;font:600 2rem/1 'Noto Serif KR',serif;transform:rotate(-5deg);box-shadow:inset 0 0 0 2px #ffffff2e,0 10px 24px #0006;animation:seal 2.4s ease-in-out infinite;}
+  .spin::after{content:'';position:absolute;inset:-10px;border-radius:16px;border:1px solid #f0d38c66;animation:ring 2.4s ease-out infinite;}
+  @keyframes seal{0%,100%{transform:rotate(-5deg) scale(1)}50%{transform:rotate(-5deg) scale(1.06)}}
+  @keyframes ring{0%{opacity:.9;transform:scale(.9)}100%{opacity:0;transform:scale(1.35)}}
+  @media (prefers-reduced-motion: reduce){.spin,.spin::after{animation:none}}
+  a{color:#e9c47a; text-decoration:underline; text-underline-offset:4px; font-weight:700;}
 </style>
 </head>
 <body>
   <div class="box">
-    <div class="spin">✨</div>
+    <div class="spin" aria-hidden="true">封</div>
     <p id="msg">결제를 확인하고 있어요...</p>
     <button type="button" id="retry" hidden>결제 확인 다시 시도</button>
     <p id="back" hidden><a href="/">홈으로 돌아가기</a></p>
